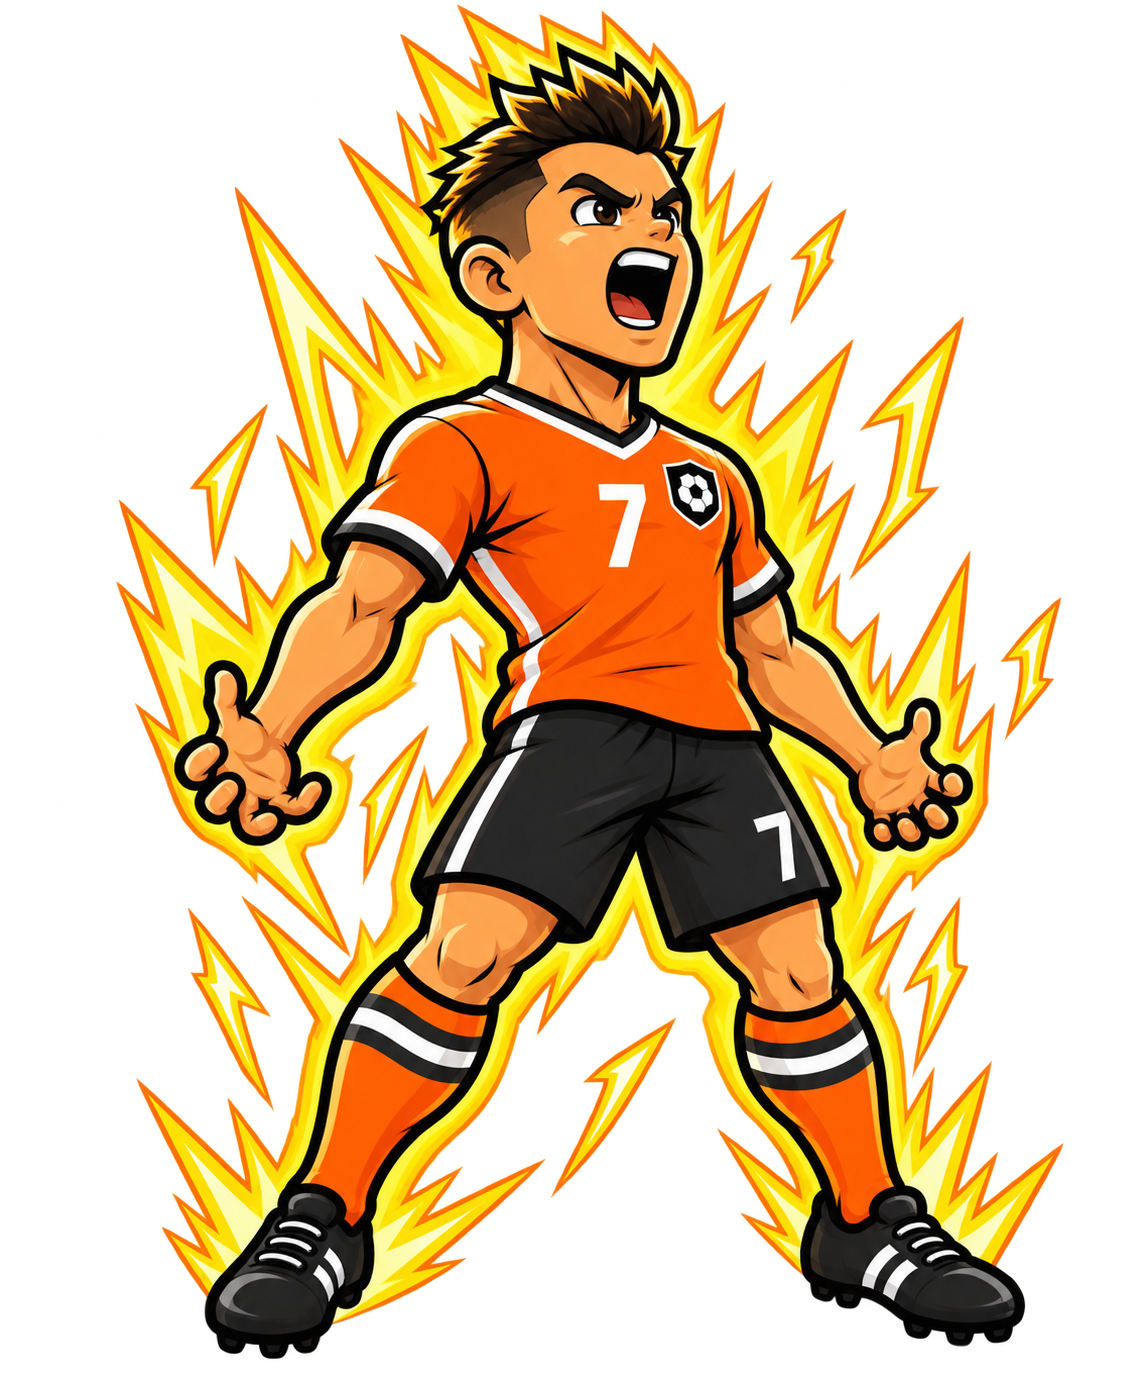
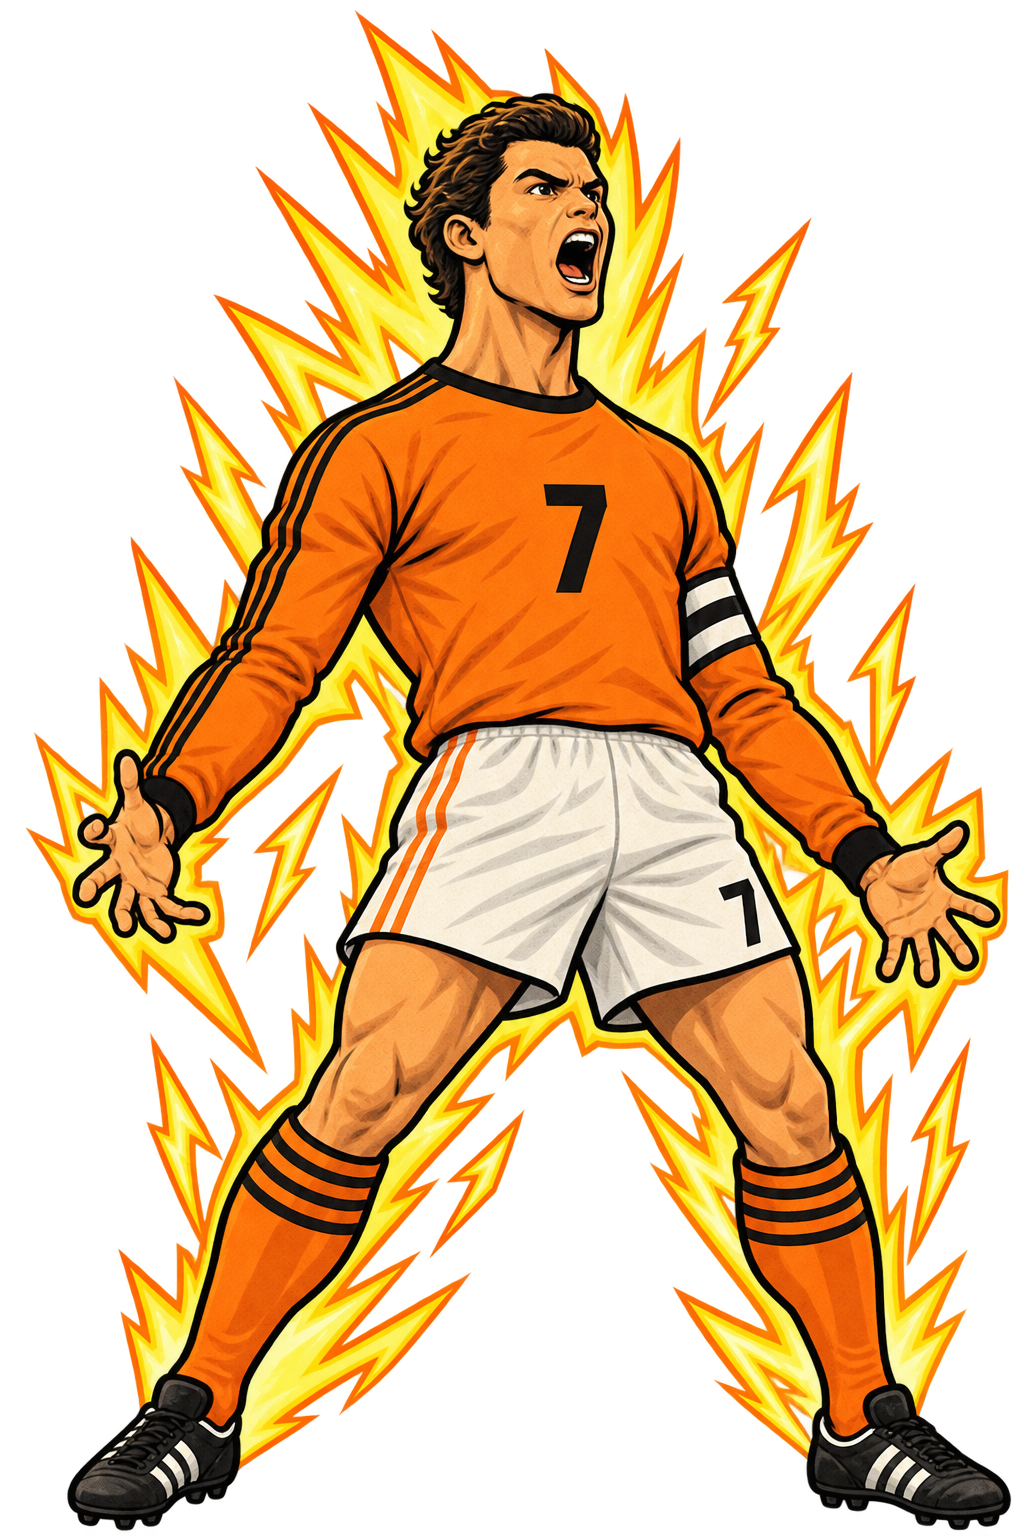
1974-style total footballer
Claude-Session: https://claude.ai/code/session_01SJFgZ3ntddE1JVA3buEB2q

diff --git a/talk/index.html b/talk/index.html
@@ -340,7 +340,7 @@
     <div class="place hand poslabel" data-obj="poslabel2" style="left: 2760px; top: 1560px; width: 600px; transform: rotate(4deg);">Defender</div>
     <div class="place hand poslabel" data-obj="poslabel3" style="left: 4020px; top: 2130px; width: 600px; transform: rotate(-8deg);">Midfielder</div>
     <div class="place hand poslabel" data-obj="poslabel4" style="left: 4586px; top: 2302px; width: 600px; transform: rotate(5deg);">Striker</div>
-    <img class="place figure" data-obj="fig5" src="img/player5.png" alt="" style="left: 3171px; top: 1522px; width: 600px;">
+    <img class="place figure" data-obj="fig5" src="img/player5.png?v=2" alt="" style="left: 3171px; top: 1522px; width: 600px;">
     <div class="place card" data-obj="card5" style="left: 3831px; top: 1552px; width: 1260px; transform: rotate(-1.5deg);">
       <div class="card-body">
         <div class="card-title"><span class="hand">Total footballer</span><span class="pos">ALL</span></div>
